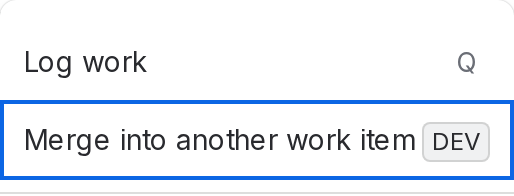
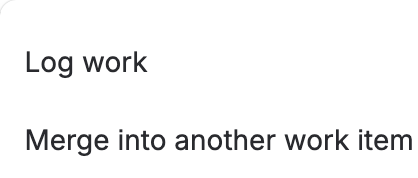
N1: User Guide mit neu aufgenommenen Bildern (ohne DEV-Plakette, Admin ohne Konto-ID), Privacy A1 Log-Liste nach Code-Stand (Quelle jira-merge 127d2c5)

diff --git a/user-guide.html b/user-guide.html
@@ -24,7 +24,7 @@ nav{font-size:14px;margin-bottom:24px}
 <ul><li>merging a work item into itself</li><li>merging a subtask into its own parent</li><li>merging a source that has a work item security level into a target with a different level or none</li><li>merging a work item that is already being merged</li><li>merging a source with more than 1,000 comments, attachments and links together (turn off one kind under “Change options”)</li></ul>
 <h2>Permissions you need</h2>
 <p>Stitchback acts as you, so you need these Jira permissions. The preview checks the most important ones before anything is changed. If Add comments, Create attachments or Link work items is missing in the target, the preview says so and the merge does not start. Ask a Jira admin for the permission, or click “Change options” and turn off that part. If Jira still refuses one of these during the merge, the merge stops and says which step Jira refused. If Transition work items is missing in the source, the preview warns you and the source stays open. If another permission is missing, the merge runs to the end and the result names what was not done.</p>
-<ul><li>Browse projects, in both spaces</li><li>Add comments, in the target</li><li>Create attachments, in the target</li><li>Link work items, in the target</li><li>Transition work items, in the source</li><li>To add the requester (in a software space: the reporter) as a watcher: Manage watchers</li><li>To undo <strong>your own</strong> merge: Delete own comments and Delete own attachments</li><li>To undo a merge <strong>someone else</strong> started: Delete all comments and Delete all attachments, in the target. Jira lets you delete comments and attachments that another person added only with these permissions. The app checks them first. If one is missing, it changes nothing and tells you to ask the person who merged, or a Jira admin, to undo it.</li></ul>
+<ul><li>Browse projects, in both spaces</li><li>Add comments, in the target</li><li>Create attachments, in the target</li><li>Link work items, in the target</li><li>Transition work items, in the source</li><li>To add the requester (in a software space: the reporter) as a watcher: Manage watchers</li><li>To undo <strong>your own</strong> merge: Delete own comments and Delete own attachments</li><li>To undo a merge <strong>someone else</strong> started: Delete all comments, in the source and the target. If the merge copied attachments, also Delete all attachments, in the target. Jira lets you delete comments and attachments that another person added only with these permissions. The app checks them first. If one is missing, it changes nothing and tells you to ask the person who merged, or a Jira admin, to undo it.</li></ul>
 <h2>Preview</h2>
 <p><strong>Preview</strong> changes nothing. It shows the two work items and the number of comments, attachments and links that would be copied. It also shows whether the requester (in a software space: the reporter) will be added, how the source will be closed, and any warnings. The warnings you may see:</p>
 <ul><li>An attachment larger than 25 MB stays on the source, and a note points to it.</li><li>An attachment is already on the target, so it won’t be copied again.</li><li>The requester can’t see the target.</li><li>A requester who is a portal customer can’t be added as a watcher.</li><li>Subtasks stay behind on the source.</li><li>Internal notes of a service request won’t be copied, so they stay internal. This is the default.</li><li>Internal notes of a service request become visible to everyone who can see the software-space target. This happens only if you cleared “Skip internal notes”.</li><li>No direct transition to a done status exists, so the source stays open unless you choose one.</li></ul>
@@ -54,7 +54,7 @@ nav{font-size:14px;margin-bottom:24px}
 <h2>License</h2>
 <p>Starting a <strong>new merge</strong> needs an active Marketplace license. If Atlassian reports the license as explicitly inactive, the window shows “Your Stitchback license isn’t active, so new merges are off. Existing merges can still be undone. Ask a Jira admin to renew the license.” and <strong>Merge</strong> is disabled. Preview, finishing a merge that has begun, Undo, and the admin page keep working. If the app receives no license information at all, it does not block.</p>
 <h2>Known limits</h2>
-<ul><li><strong>Not copied:</strong> subtasks and the child work items of an epic, and attachments over 25 MB. The original author is not kept as author. Copies carry a header line instead, for example “Originally posted by Alex on Oct 1, 2026 09:00 in SUP-2 as an internal note:”.</li><li><strong>Time:</strong> large merges take a few minutes. Keep the window open until the progress bar is done.</li><li><strong>Reopening the source:</strong> if no transition leads back, the source stays closed; the window tells you.</li><li><strong>Undo period:</strong> 90 days; deleting merge records removes the ability to undo.</li><li><strong>Safety measure:</strong> if a copy that was created as internal comes back as public, the app deletes it at once and stops the merge. Use Undo to remove what was already copied.</li><li><strong>Service → software:</strong> internal notes of a service request stay behind unless you clear “Skip internal notes”. If you do, they become visible to everyone who can see the target, and the preview warns you.</li><li><strong>Export</strong> is a copyable JSON block, not a file download.</li><li><strong>Requesters:</strong> a portal customer can only be added to a target in a service space. There, “Always add the requester” adds them even if they can’t see the target. In other spaces they can’t be added, and the preview says so.</li><li><strong>Size of one merge:</strong> at most 1,000 comments, attachments and links. Above that the preview asks you to turn off one part under “Change options”.</li><li><strong>Undo by someone else</strong> needs the Jira permissions Delete all comments and Delete all attachments.</li></ul>
+<ul><li><strong>Not copied:</strong> subtasks and the child work items of an epic, and attachments over 25 MB. The original author is not kept as author. Copies carry a header line instead, for example “Originally posted by Alex on Oct 1, 2026 09:00 in SUP-2 as an internal note:”.</li><li><strong>Time:</strong> large merges take a few minutes. Keep the window open until the progress bar is done.</li><li><strong>Reopening the source:</strong> if no transition leads back, the source stays closed; the window tells you.</li><li><strong>Undo period:</strong> 90 days; deleting merge records removes the ability to undo.</li><li><strong>Safety measure:</strong> if a copy that was created as internal comes back as public, the app deletes it at once and stops the merge. Use Undo to remove what was already copied.</li><li><strong>Service → software:</strong> internal notes of a service request stay behind unless you clear “Skip internal notes”. If you do, they become visible to everyone who can see the target, and the preview warns you.</li><li><strong>Export</strong> is a copyable JSON block, not a file download.</li><li><strong>Requesters:</strong> a portal customer can only be added to a target in a service space. There, “Always add the requester” adds them even if they can’t see the target. In other spaces they can’t be added, and the preview says so.</li><li><strong>Size of one merge:</strong> at most 1,000 comments, attachments and links. Above that the preview asks you to turn off one part under “Change options”.</li><li><strong>Undo by someone else</strong> needs the Jira permissions Delete all comments (source and target) and Delete all attachments (target).</li></ul>
 <h2>Troubleshooting and FAQ</h2>
 <p><strong>The entry Merge into another work item is missing.</strong> Reload the page. Right after you install the app it can take about a minute. If it is still missing, ask a Jira admin to check that Stitchback is installed and enabled. The admin finds it under <strong>Connected apps</strong> in Administration (gear icon → <strong>Apps</strong> → <strong>Manage apps</strong> → <strong>Take me there</strong>).</p>
 <p><strong>There is no Merge button.</strong> Click <strong>Preview</strong> first. The <strong>Merge</strong> button appears once a preview has succeeded. Changing an option clears the preview, so click <strong>Preview</strong> again.</p>
@@ -62,7 +62,7 @@ nav{font-size:14px;margin-bottom:24px}
 <p><strong>The window says the work item “is already being merged”.</strong> Another merge of the same source is running. Wait until it is done, or open the work item again a few minutes later. A merge that stopped part-way offers <strong>Resume</strong> and <strong>Undo this merge</strong>.</p>
 <p><strong>The merge stopped part-way.</strong> Open the source work item again and click <strong>Resume</strong>. The app checks Jira first and does not repeat finished steps. If Jira was busy, wait a minute before you resume.</p>
 <p><strong>Jira did not accept a comment.</strong> The app tries once more as plain text. If Jira still refuses it, the comment stays on the source and the result names it. Copy it manually if you need it.</p>
-<p><strong>Undo says the merge was done by someone else.</strong> You lack Delete all comments or Delete all attachments in the target. Nothing was changed. Ask the person who merged, or a Jira admin, to undo it.</p>
+<p><strong>Undo says the merge was done by someone else.</strong> You lack Delete all comments in the source or the target, or Delete all attachments in the target. Nothing was changed. Ask the person who merged, or a Jira admin, to undo it.</p>
 <p><strong>“This merge was not found”.</strong> The merge record is gone: either a Jira admin deleted the merge records, or the merge had no activity for 90 days. The work items themselves are unchanged. The merge can no longer be undone by the app.</p>
 <p><strong>“Stitchback is paused”.</strong> The vendor stopped the app for all sites for safety. Nothing is changed while it is paused. Try again in a few hours. See “Stitchback is paused” above.</p>
 <p><strong>“Your Stitchback license isn’t active”.</strong> New merges are off. Undo, resuming a merge that has begun and the admin page keep working. Ask a Jira admin to renew the license.</p>

diff --git a/privacy.html b/privacy.html
@@ -14,7 +14,7 @@ nav{font-size:14px;margin-bottom:24px}
 <h2>Part A: Data inside your Jira site (I act on your behalf)</h2>
 <h3>A1. How the app works</h3>
 <p>The app is a Forge app. It runs entirely on Atlassian's cloud platform.</p>
-<ul><li><strong>No servers of my own.</strong> I operate no servers, databases or analytics tools of my own. The app sends no data outside Atlassian. Its manifest declares no external connections ("egress").</li><li><strong>Your users' permissions.</strong> Every access to Jira runs with the permissions of the user who uses the app. The app can only read and change what that user can read and change.</li><li><strong>No personal data in the app's logs.</strong> The app's code logs each stage of a merge or undo (operation, duration, counts), failed requests to Jira (only the HTTP status code), unexpected errors (without text), the daily clean-up, deletions on the administration page and missing licence information (a count). Only numbers, true/false values and identifiers (merge IDs, issue keys, status and operation codes) are accepted. Any other text is replaced by "[redacted]". Names, summaries, file names and comment texts are never logged, and Jira's error messages are discarded. The Forge platform may add its own technical entries, such as call errors, which I do not control.</li></ul>
+<ul><li><strong>No servers of my own.</strong> I operate no servers, databases or analytics tools of my own. The app sends no data outside Atlassian. Its manifest declares no external connections ("egress").</li><li><strong>Your users' permissions.</strong> Every access to Jira runs with the permissions of the user who uses the app. The app can only read and change what that user can read and change.</li><li><strong>No personal data in the app's logs.</strong> The app's code currently writes a log entry only for these events: each further stage of a merge (after the first one, which starts it) and each stage of an undo (operation, duration, counts), failed requests to Jira (only the HTTP status code), unexpected errors (without text), the daily clean-up (counts), deletions on the administration page (counts) and missing licence information (a count). The logging function accepts only numbers, true/false values and identifiers (merge IDs, issue keys, status and operation codes). Any other text is replaced by "[redacted]". Names, summaries, file names and comment texts are never logged, and Jira's error messages are discarded. The Forge platform may add its own technical entries, such as call errors, which I do not control.</li></ul>
 <h3>A2. What the app reads and changes in Jira</h3>
 <p>When a user previews or starts a merge, the app reads the source and target issues from Jira. This includes:</p>
 <ul><li>summary, status, issue type, reporter or requester,</li><li>comments, attachments, links, watchers,</li><li>in Jira Service Management, request participants and the requester's organisations.</li></ul>
